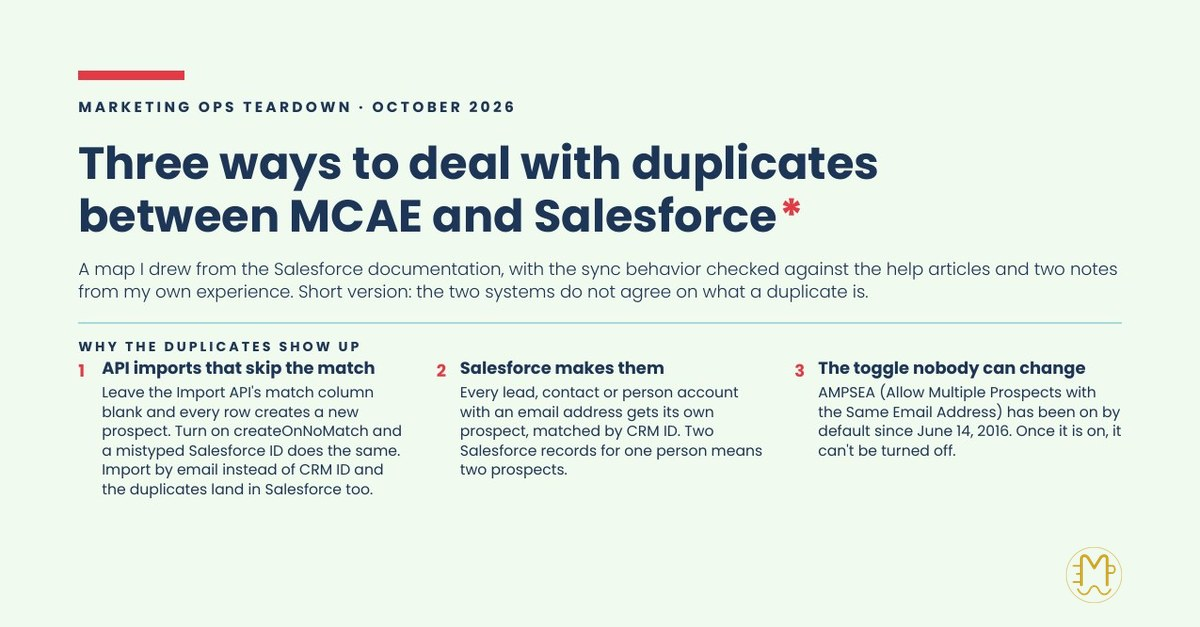
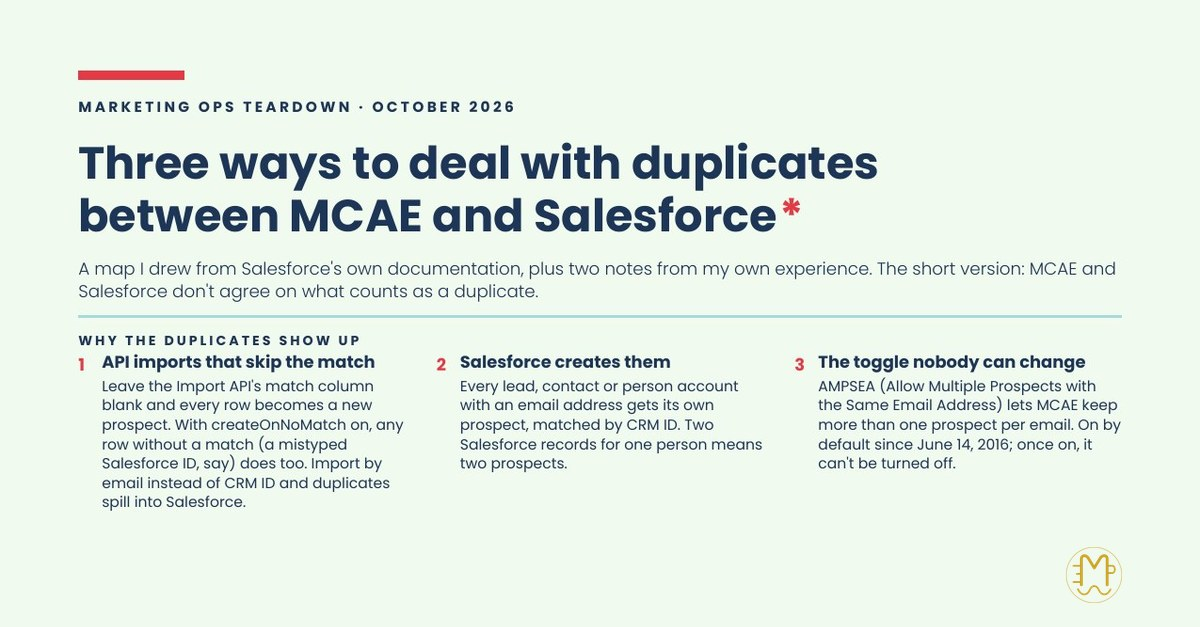
Duplicates teardown: plain-language tell and flow/wording pass on page and PDF
Claude-Session: https://claude.ai/code/session_01DsEECXTikR8zK7ynktzs5M

diff --git a/projects/mcae-duplicates-teardown/index.html b/projects/mcae-duplicates-teardown/index.html
@@ -11,7 +11,7 @@ image: "/assets/images/mcae-duplicates-teardown-og.jpg"
   <h1 class="font-weight-bold title">Three ways to deal with duplicates between MCAE and Salesforce*</h1>
 
   <p class="lead">
-    A map I drew from the Salesforce documentation, with the sync behavior checked against the help articles and two notes from my own experience. Short version: the two systems do not agree on what a duplicate is.
+    A map I drew from Salesforce's own documentation, plus two notes from my own experience. The short version: MCAE and Salesforce don't agree on what counts as a duplicate.
   </p>
 
   <p>
@@ -26,16 +26,16 @@ image: "/assets/images/mcae-duplicates-teardown-og.jpg"
 
   <h2 class="mt-4">Why the duplicates show up</h2>
   <ol>
-    <li><strong>API imports that skip the match.</strong> The v5 Import API matches on one column: prospect ID, Salesforce ID, or email. Leave the match column blank and every row creates a new prospect. Turn on <code>createOnNoMatch</code> and a mistyped Salesforce ID does the same. Import by email instead of CRM ID and the duplicates land in Salesforce too, as new leads or contacts.</li>
-    <li><strong>Salesforce makes them.</strong> Every lead, contact or person account with an email address gets its own prospect, matched by CRM ID. Two Salesforce records for one person means two prospects.</li>
-    <li><strong>The toggle nobody can change.</strong> AMPSEA (Allow Multiple Prospects with the Same Email Address) has been on by default since June 14, 2016. Once it is on, it can't be turned off.</li>
+    <li><strong>API imports that skip the match.</strong> The v5 Import API matches each row to an existing prospect using one column you pick: prospect ID, Salesforce ID, or email. Leave that column blank and every row becomes a new prospect. Turn on <code>createOnNoMatch</code> and any row that doesn't find a match, like one with a mistyped Salesforce ID, becomes a new prospect too. Import by email instead of CRM ID and the duplicates spill into Salesforce as new leads or contacts.</li>
+    <li><strong>Salesforce creates them.</strong> Every lead, contact or person account with an email address gets its own prospect, matched by CRM ID. Two Salesforce records for one person means two prospects.</li>
+    <li><strong>The toggle nobody can change.</strong> AMPSEA (Allow Multiple Prospects with the Same Email Address) lets MCAE keep more than one prospect per email address. It has been on by default since June 14, 2016, and once it's on, it can't be turned off.</li>
   </ol>
 
   <h2 class="mt-4">1. Block them in Salesforce <small style="font-size: 55%; font-weight: 400; color: #1D3557;">admin required</small></h2>
   <ol>
     <li>Matching rules find possible duplicates. Duplicate rules decide what happens next: allow with an alert, or block.</li>
     <li>When MCAE tries to create a lead that a blocking rule catches, the prospect stops syncing and shows <em>Deduplication matching rule conflict</em> in the sync error queue.</li>
-    <li>Salesforce's own fix list: exempt the connector user's profile from the rule, sync to the existing record, merge the records, or change the prospect's data so it no longer matches.</li>
+    <li>Salesforce's suggested fixes: exempt the connector user's profile from the rule, sync to the existing record, merge the records, or change the prospect's data so it no longer matches.</li>
   </ol>
   <p>
     <strong>Watch out:</strong> Fixing the rule does not fix the backlog. Sync errors have to be resolved before an admin can clear them, so loosening a rule still means a trip through the sync error queue to resync everything that got stuck.
@@ -43,20 +43,21 @@ image: "/assets/images/mcae-duplicates-teardown-og.jpg"
 
   <h2 class="mt-4">2. Live with them in MCAE <small style="font-size: 55%; font-weight: 400; color: #1D3557;">built in, because AMPSEA is not optional</small></h2>
   <ol>
-    <li>CRM ID is the unique key. A prospect with no CRM ID syncs to the first Salesforce record it finds with the same email.</li>
+    <li>MCAE uses the CRM ID (the Salesforce record ID) as the unique key. A prospect with no CRM ID syncs to the first Salesforce record it finds with the same email.</li>
     <li>Since Winter '25, the Optimizer finds prospects that share an email address and merges up to three at a time.</li>
-    <li>The v5 API lists no merge endpoint, so there is still no bulk merge by API.</li>
+    <li>The API has no merge option, so there's no way to merge prospects in bulk.</li>
+    <li>Marketing Data Sharing rules can stop some Salesforce records from syncing to MCAE in the first place.</li>
   </ol>
   <p>
-    <strong>Watch out:</strong> A list email goes to the same-email prospect with the most recent activity. A suppression list won't suppress an address another prospect shares. An opt-out applies to every prospect with that email, and in my experience, so does a hard bounce. Engagement Studio allows one prospect per email per program. Marketing Data Sharing can limit which Salesforce records sync at all.
+    <strong>Watch out:</strong> A list email goes to the same-email prospect with the most recent activity. A suppression list won't suppress an address another prospect shares. An opt-out applies to every prospect with that email, and in my experience, so does a hard bounce. Engagement Studio only lets one prospect per email into each program.
   </p>
 
   <h2 class="mt-4">3. Bring in a dedupe tool <small style="font-size: 55%; font-weight: 400; color: #1D3557;">Salesforce side only</small></h2>
   <p>
-    DemandTools, Plauti and Cloudingo find and merge duplicate leads and contacts inside Salesforce. When the connector sees a merged or deleted record, it updates the prospect and sends the deleted one to the MCAE recycle bin.
+    DemandTools, Plauti and Cloudingo find and merge duplicate leads and contacts inside Salesforce. When the connector sees that records were merged in Salesforce, it updates the surviving prospect and sends the prospect tied to the merged-away record to the MCAE recycle bin.
   </p>
   <p>
-    <strong>Watch out:</strong> the connector setting that copies the losing prospect's activities, tags and lists onto the winner isn't available when AMPSEA is on, and the AMPSEA docs don't say that history moves. A prospect with no CRM ID doesn't exist in Salesforce, so no Salesforce tool can see it.
+    <strong>Watch out:</strong> MCAE has a connector setting that copies the losing prospect's activities, tags and lists onto the winner, and it isn't available when AMPSEA is on. The AMPSEA docs don't say whether that history moves at all. A prospect with no CRM ID doesn't exist in Salesforce, so no Salesforce tool can see it.
   </p>
   <p>
     <strong>From experience:</strong> <em>business decision makers guard the CRM far more closely than MCAE, because opportunities are considered more valuable* for revenue reporting than campaigns built in MCAE. I have yet to see a company welcome a third-party app that needs edit access to CRM records just to dedupe prospects, especially when the CRM is the org's source of truth and the Admins and Dev team trust the duplicate and matching rules they already run in Salesforce.</em>
@@ -64,7 +65,7 @@ image: "/assets/images/mcae-duplicates-teardown-og.jpg"
 
   <h2 class="mt-4">The tell</h2>
   <p>
-    The one connector setting that merges prospects when Salesforce merges records isn't available in exactly the business units that allow duplicates, which is every business unit created since June 2016. Dedupe in Salesforce, then go check the recycle bin.
+    MCAE has a connector setting that merges your prospects, history and all, when you merge their records in Salesforce. You can't turn it on if your account allows more than one prospect per email address. That's every account created since June 2016, and that setting can't be turned off either. So dedupe in Salesforce, then go check the recycle bin.
   </p>
 
   <h2 class="mt-4" style="font-size: 1.1rem;">Sources</h2>
